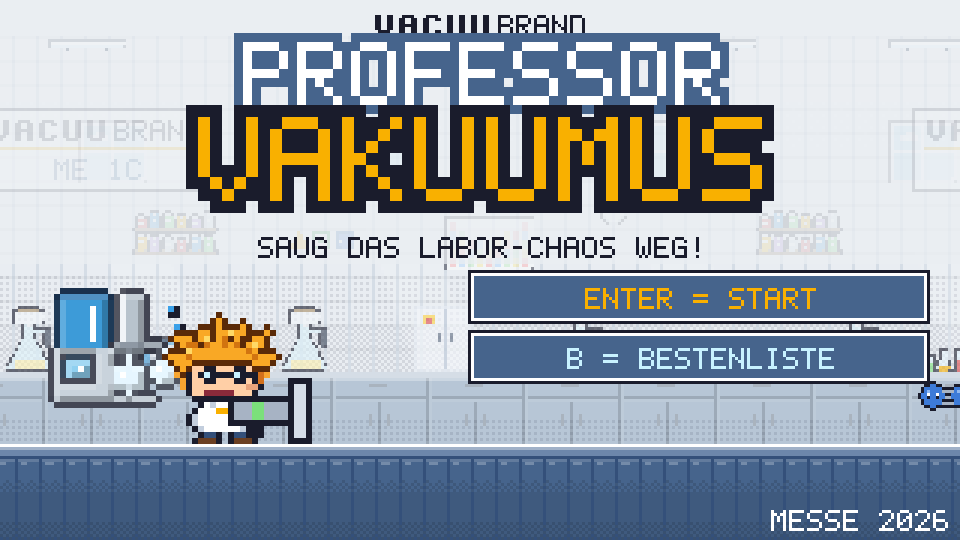
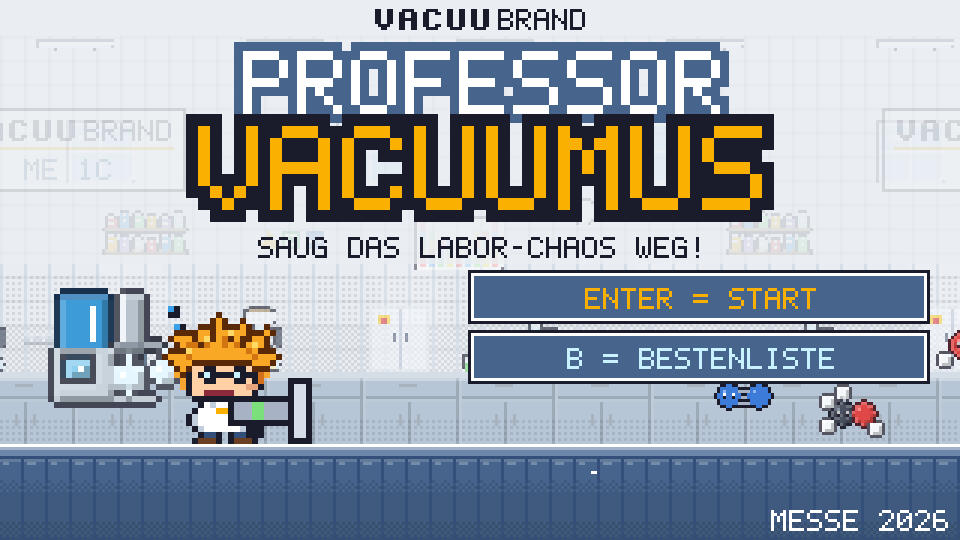
Titelbild im README neu (VACUUMUS), Updates auf GitHub Pages zuverlässig laden
- docs/1_titel.png neu aufgenommen (zeigte noch VAKUUMUS)
- sw.js: Dateien beim Update frisch vom Server holen (cache: reload / no-cache),
  sonst landete der 10-Minuten-Browsercache im neuen Offline-Cache. VERSION v13.
- main.js: Wird eine neue Version aktiv, lädt das Spiel auf dem Titel neu,
  während einer Runde erst beim nächsten Titelbildschirm.

Claude-Session: https://claude.ai/code/session_01KFi8zURECiyx8t8e9pYFAD

diff --git a/sw.js b/sw.js
@@ -3,7 +3,7 @@
 // Bei jeder neuen Version VERSION erhöhen, damit Tablets die neuen Dateien holen.
 // Hinweis: Der Cache-Name behält absichtlich den alten Namen "vakuumus" (Professor heisst jetzt Vacuumus).
 // Nur die Nummer hochzählen, damit installierte Tablets sauber aktualisieren.
-const VERSION = 'vakuumus-v12';
+const VERSION = 'vakuumus-v13';
 const FILES = [
   './',
   'index.html',
@@ -32,7 +32,11 @@ const FILES = [
 ];
 
 self.addEventListener('install', e => {
-  e.waitUntil(caches.open(VERSION).then(c => c.addAll(FILES)).then(() => self.skipWaiting()));
+  // cache: 'reload' holt jede Datei frisch vom Server. Sonst könnte der Browser-Zwischenspeicher
+  // (GitHub Pages: 10 Minuten) alte Dateien in den neuen Cache legen.
+  e.waitUntil(caches.open(VERSION)
+    .then(c => c.addAll(FILES.map(f => new Request(f, { cache: 'reload' }))))
+    .then(() => self.skipWaiting()));
 });
 
 self.addEventListener('activate', e => {
@@ -46,7 +50,7 @@ self.addEventListener('fetch', e => {
   if (e.request.method !== 'GET' || new URL(e.request.url).origin !== location.origin) return;
   e.respondWith(caches.open(VERSION).then(cache =>
     cache.match(e.request, { ignoreSearch: true }).then(hit => {
-      const net = fetch(e.request).then(res => {
+      const net = fetch(e.request.url, { cache: 'no-cache' }).then(res => {
         if (res && res.ok) cache.put(e.request, res.clone());
         return res;
       }).catch(() => hit);

diff --git a/js/main.js b/js/main.js
@@ -3,7 +3,10 @@
 const Game = {
   scene: null,
   t: 0,
+  updateReady: false, // neue Version geladen: beim nächsten Titelbildschirm neu starten
   go(scene) {
+    // Nie mitten in einer Runde neu laden, erst wenn wieder der Titel kommt
+    if (this.updateReady && scene instanceof TitleScene) { location.reload(); return; }
     if (this.scene && this.scene.exit) this.scene.exit();
     this.scene = scene;
     Input.clear();
@@ -114,6 +117,14 @@ function showHomeScreenHint() {
   window.__game = Game; // für Tests
   // Offline-Fähigkeit (PWA) nur auf GitHub Pages
   if ('serviceWorker' in navigator && /\.github\.io$/i.test(location.hostname)) {
-    navigator.serviceWorker.register('sw.js').catch(() => {});
+    // Gab es schon eine ältere Version, übernimmt die neue sofort (skipWaiting in sw.js).
+    // Dann neu laden: gleich, wenn der Titel zu sehen ist, sonst nach der laufenden Runde.
+    const hadOld = !!navigator.serviceWorker.controller;
+    navigator.serviceWorker.addEventListener('controllerchange', () => {
+      if (!hadOld || Game.updateReady) return;
+      Game.updateReady = true;
+      if (Game.scene instanceof TitleScene) location.reload();
+    });
+    navigator.serviceWorker.register('sw.js', { updateViaCache: 'none' }).catch(() => {});
   }
 })();
